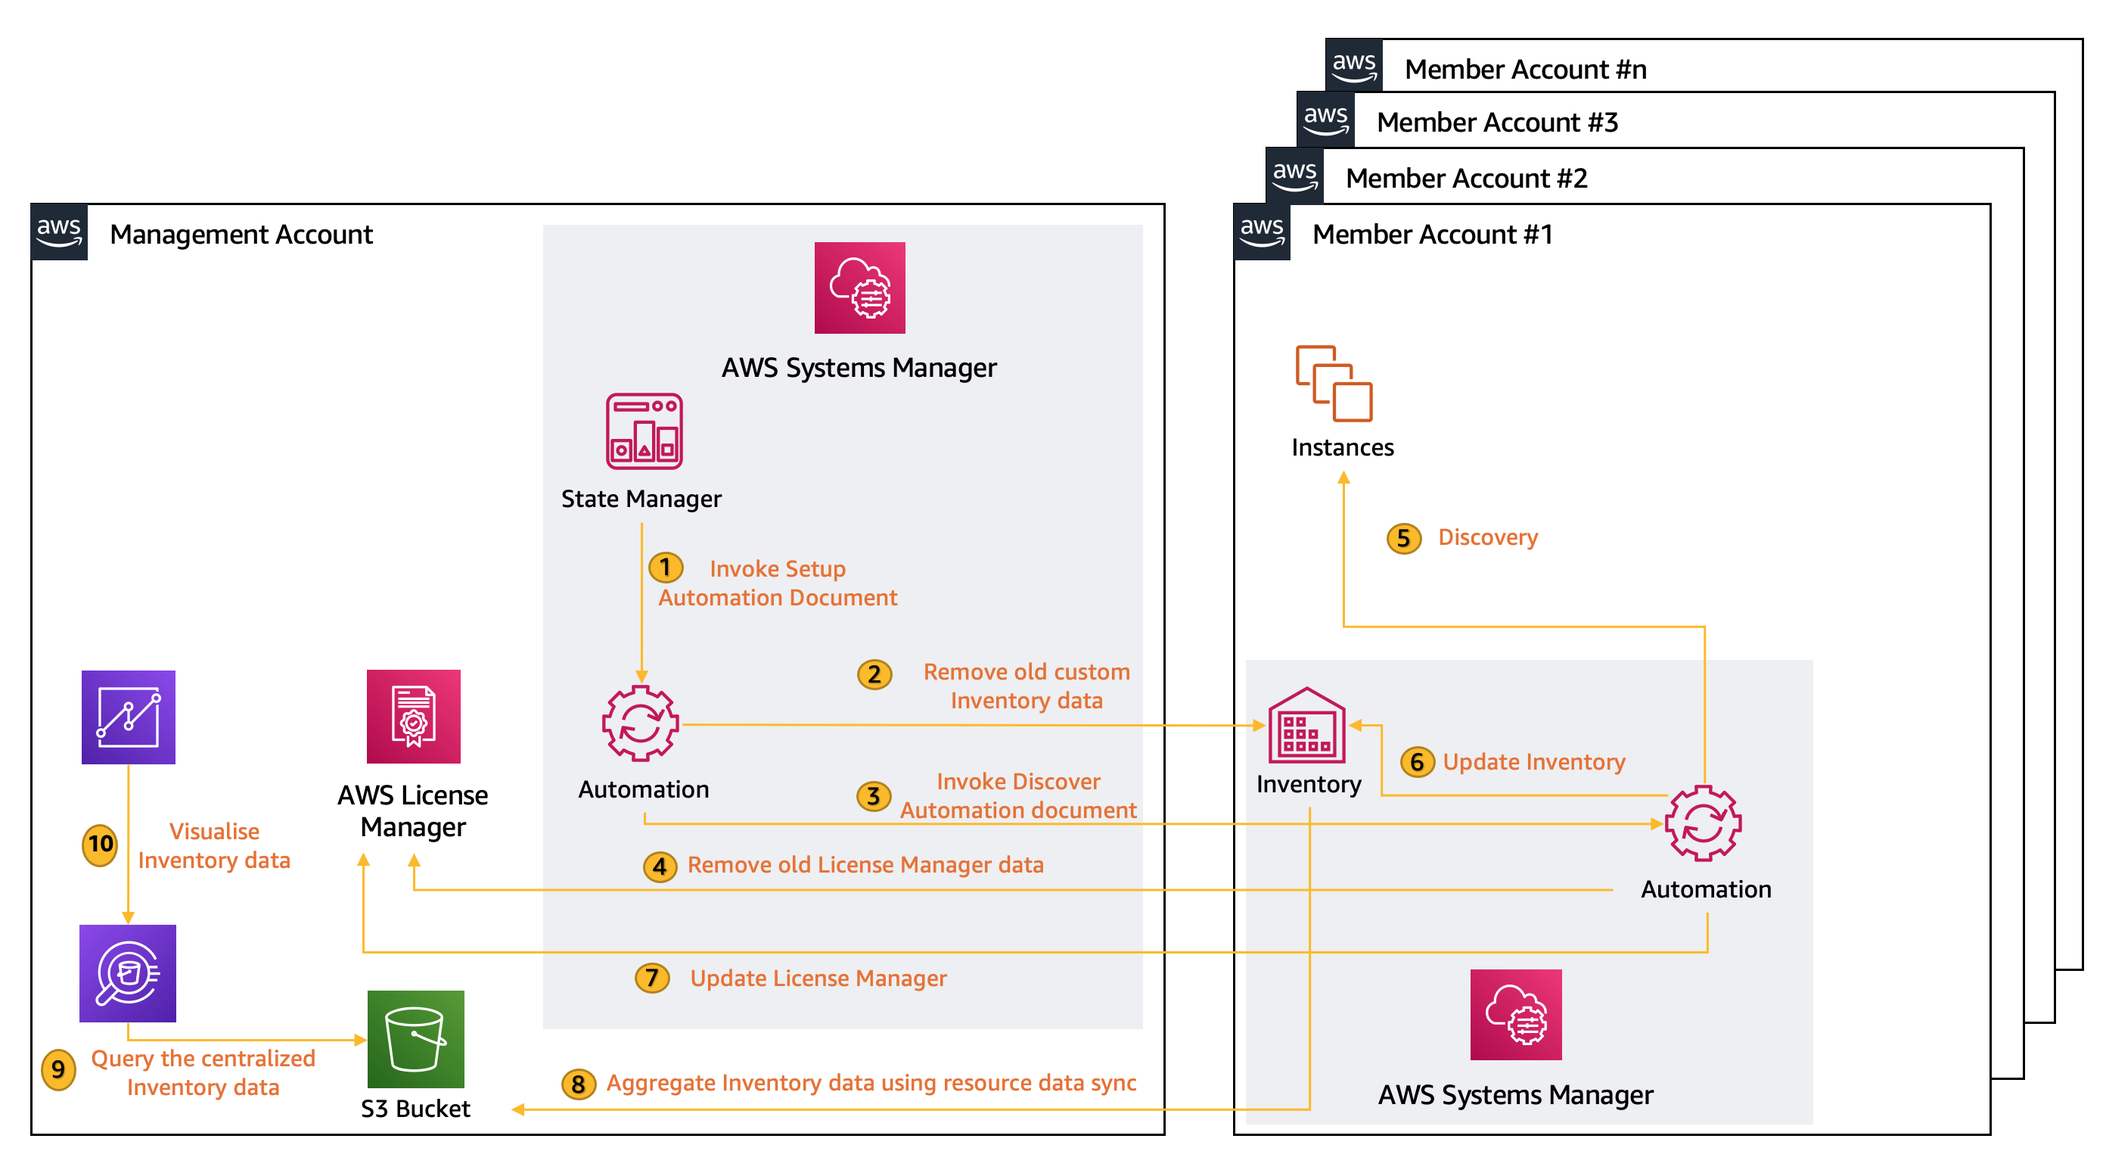
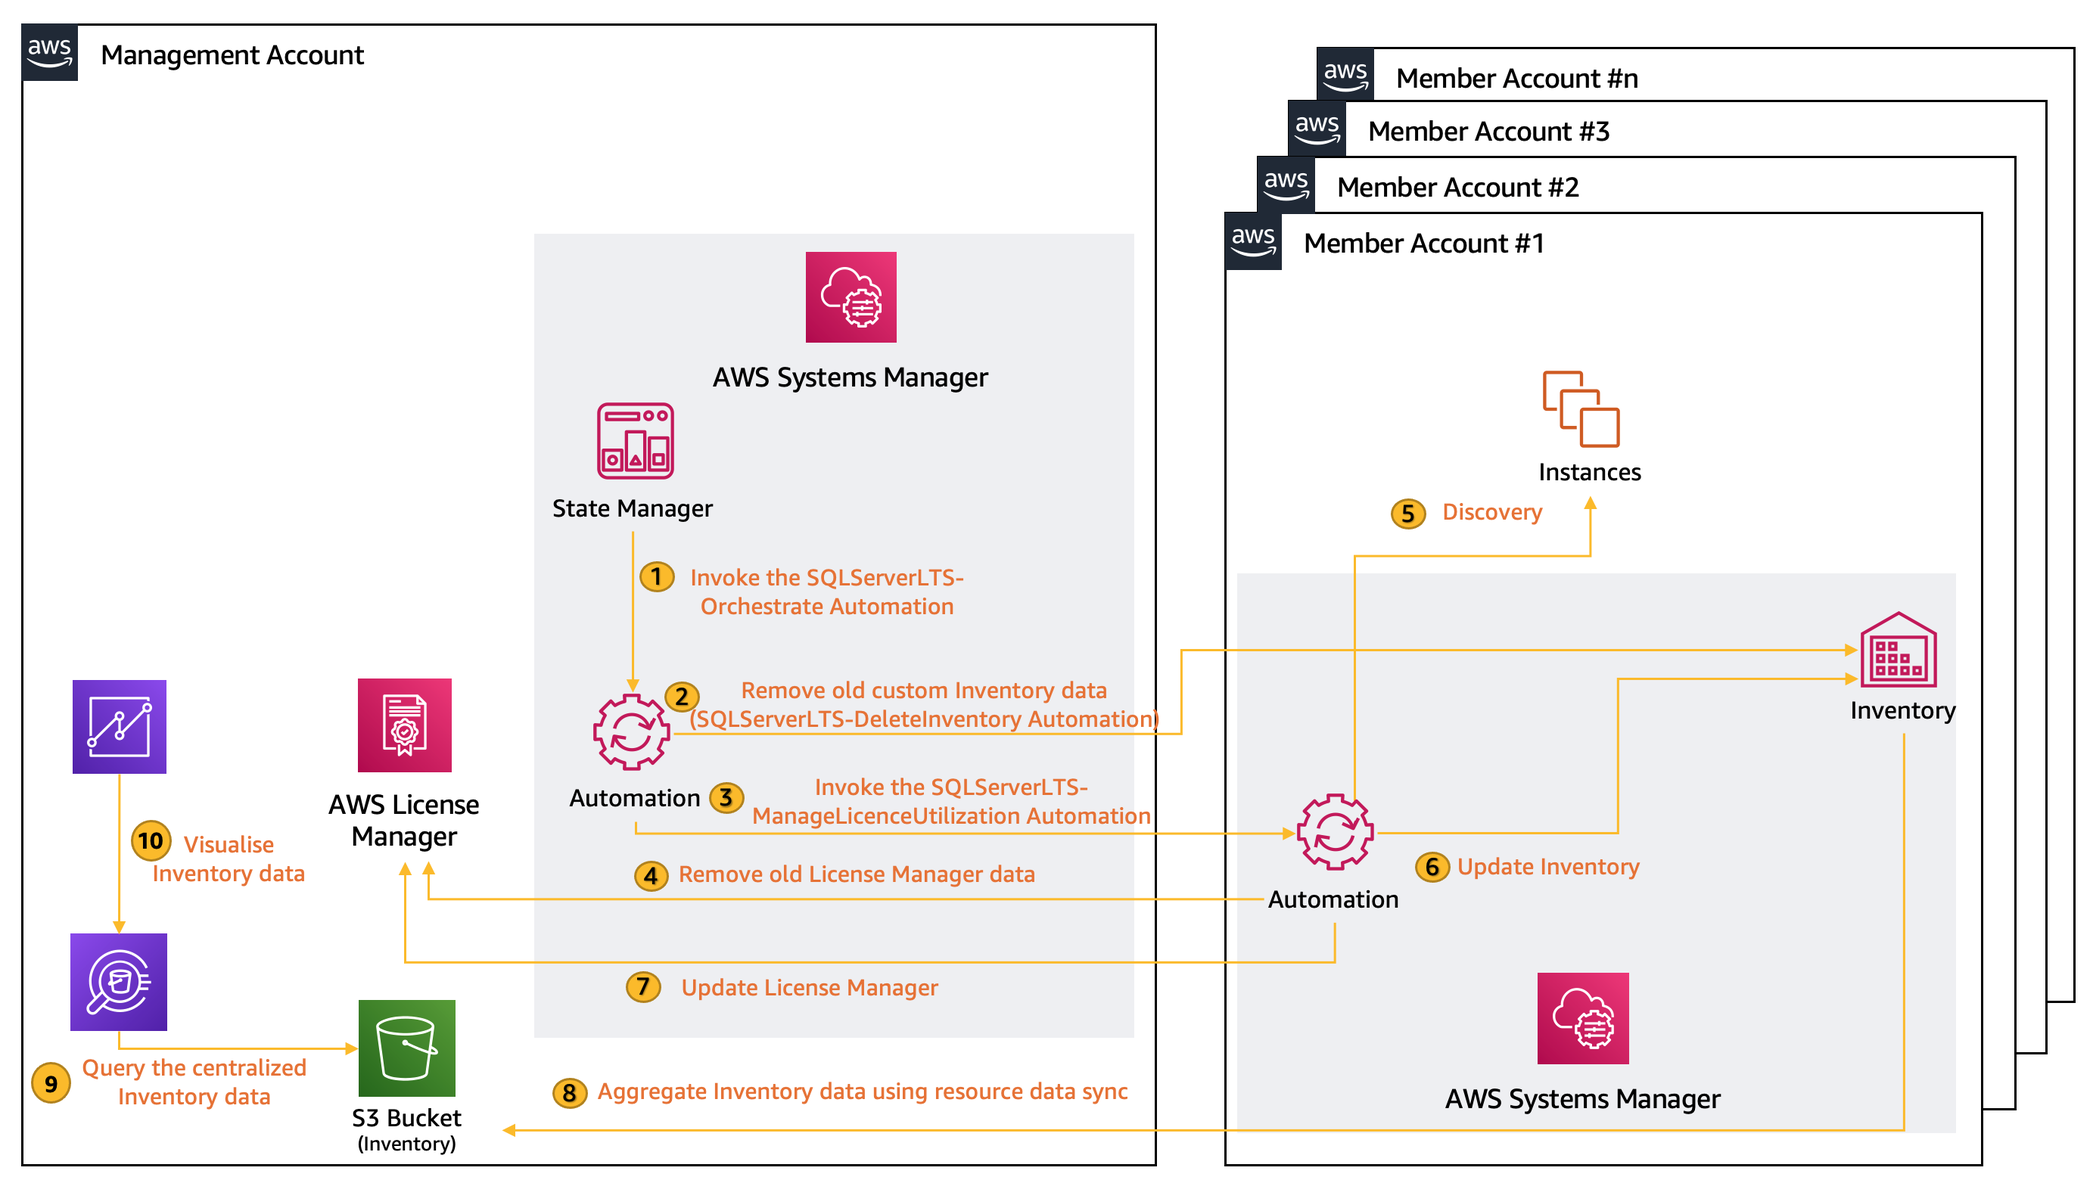
support for delegated admin

diff --git a/organization/README.md b/organization/README.md
@@ -34,22 +34,23 @@ blog post.
 # Prerequisites
 
 To deploy this solution across multiple Regions and/or accounts in 
-an organization, **complete** these steps.  
-
+an organization, **complete** these steps. 
+  
   - **Enable trusted access with AWS Organizations for CloudFormation.** 
     Complete the following tasks as described in [Enable trusted access 
     with AWS Organizations](https://docs.aws.amazon.com/AWSCloudFormation/latest/UserGuide/stacksets-orgs-enable-trusted-access.html)
     - Enable all features in AWS Organizations. With only consolidated billing features enabled, you cannot create a stack set with service-managed permissions.  
     - Enable trusted access with AWS Organizations. After trusted access is enabled, StackSets creates the necessary IAM roles in the organization's management account and target (member) accounts when you create stack sets with service-managed permissions.
+  
+  - **Using a delegated administrator.** 
+  This solution uses the management account within AWS Organizations, but you can also designate an account (delegated administrator) 
+  to manage this on behalf of the organization. If you intend to use a delegated account then you will need to register it as delegated administrator for CloudFormation stack set operations as described in [Register a delegated administrator](https://docs.aws.amazon.com/AWSCloudFormation/latest/UserGuide/stacksets-orgs-delegated-admin.html).
 
-  - **Link License Manager to AWS Organizations in all targer Regions.** 
-    To share license configurations with member accounts you will need to link 
-    License Manager to AWS Organizations.
+  - **Distributing license configurations with member accounts in all target regions.** 
+    To distribute self-managed licenses within your organization, from the License Manager console of the organization’s management account, choose Settings, and then select Link AWS Organizations accounts. When you select this option, we add a service-linked role to the management and member accounts. Repeat this step for all target regions. If you intend to use delegated administrator account, then from the License Manager console of the organization’s management account, choose Settings, and under Delegated administrator, choose Delegate administrator. Enter the account ID number for the AWS account that you want to assign, and then choose Delegate. You can’t use the ID for the management account. It must be a member account.
 
-    In the AWS License Manager console, choose **Settings**, and then select **Link AWS Organizations accounts**, as shown in Figure 1. 
+    Once completed, under the Settings section you should see a link to the new Resource Share ARN ([AWS Resource Access Manager (AWS RAM)](https://aws.amazon.com/ram/)), as shown in  Figure 1.
 
-![](images/lm-link-organization.png)
-<p align="center">Figure 1: Linking AWS Organizations accounts in the License Manager console</p>
 
     Once completed, under the Settings section you should see a link to the new Resource Share ARN (Resource Access Manager), 
     as shown in Figure 2.
@@ -80,7 +81,7 @@ an organization, **complete** these steps.  
     - SQLServerEXPLicenseConfiguration for Express Edition
 
   - **Share license configurations.** After you have defined your
-    configurations, use AWS Organizations or AWS Resource Access Manager
+    configurations, use AWS Organizations or AWS Resource Access Manager
     to share license configurations. For instructions, see the [Tracking
     software usage across multiple AWS accounts using AWS License
     Manager](https://aws.amazon.com/blogs/mt/tracking-software-usage-across-multiple-aws-accounts-using-aws-license-manager/) blog
@@ -89,7 +90,14 @@ an organization, **complete** these steps.  
     After you share your principals (accounts) and resources (license configurations), you should see them in the AWS Resource Access Manager console:
 
 ![](images/ram-lm-shared.png)
-<p align="center">Figure 3: Shared principals and resources in the AWS Resource Access Manager console</p>
+<p align="center">Figure 2: Shared principals and resources in the AWS Resource Access Manager console</p>
+
+  - **Manage instances using Systems Manager.** 
+    A managed instance is an Amazon EC2 instance that is configured for use with Systems Manager. 
+    Managed instances can use Systems Manager services such as Run Command, Patch Manager, and Session 
+    Manager. You must make sure that all instances targeted for this solution meet the prerequisites to 
+    become a managed instance including configuring instance permissions for Systems Manager as described 
+    in Setting up Systems Manager for EC2 instances.
 
 # Solution overview
 
@@ -102,7 +110,7 @@ The solution described in this blog post enhances the auto-discovery
 capability and provides license edition details for instances deployed
 across AWS Regions and accounts in AWS Organizations.
 
-Figure 4 shows the solution architecture. In addition to AWS License
+Figure 3 shows the solution architecture. In addition to AWS License
 Manager, the solution uses the following Systems Manager features and
 capabilities:
 
@@ -118,7 +126,28 @@ capabilities:
     SQL Server editions running on them.
 
 ![](images/solution-arch.png )
-<p align="center">Figure 4: Solution architecture</p>
+<p align="center">Figure 3: Solution architecture</p>
+
+
+    1. Invoke the SQLServerLTS-Orchestrate Automation: State Manager invokes the SQLServerLTS-Orchestrate Automation and passes the required parameters using which the solution determines the target Organizational Unit IDs/AWS accounts and Regions where your SQL database instances are deployed.
+
+    2. Remove old custom Inventory data: In this step, the Orchestrate Automation first invokes the SQLServerLTS-DeleteInventory Automation in the target member account to remove the old custom Inventory schema in Systems Manager Inventory, making sure that Inventory data is current. Inventory data comprises of Oracle database editions and all the packs installed and/or used.
+    
+    3. Invoke the SQLServerLTS-ManageLicenceUtilization Automation: Once the deletion has been completed, the SQLServerLTS-Orchestrate Automation invokes the SQLServerLTS-ManageLicenceUtilization Automation to initiate the discovery of Oracle databases in your account and track their utilization for license management.
+    
+    4. Remove old License Manager data: The Automation first disassociates the target instance from an existing License Configuration. This makes sure that the latest discovered licenses are available in License Manager for scenarios where changes have been made on the instance. For example, somebody deletes or installs a new edition of Oracle database on the target instance after the previous Automation run.
+    
+    5. Discovery: The Discover Automation then targets instances based on the State Manager association definition to determine the type of Oracle database running, and stores this data in the artifacts bucket under ssm-output. Instances can be targeted using ParameterValues, ResourceGroup or with tag: (default), AWS::EC2::Instance, InstanceIds, instanceids. Refer the API reference for Target for more details.
+
+    6. Update Inventory: The discovered data is used to update the Systems Manager Inventory. In this step, Automation creates two new custom schemas along with the metadata to store the Oracle edition details along with the management packs.
+    
+    7. Update License Manager: Finally, the Automation updates the License Manager with the license utilization data and associates the target instance with the appropriate license specification that has been defined in License Manager. Discovered data under ssm-output is cleared for the next run.
+
+    8. Aggregate Inventory data using resource data sync: Systems Manager resource data sync sends the Inventory data collected from all your managed instances across the member accounts to a single Amazon Simple Storage Service (Amazon S3) bucket. Then, resource data sync automatically updates the centralized data when new Inventory data is collected. 
+
+    9. Query the centralized Inventory data: You can use Amazon Athena which provides an interactive query service to analyze the Inventory data in Amazon S3 using standard SQL.
+    
+    10. Visualize Inventory data: With Amazon QuickSight you can create and publish interactive BI dashboards with insights powered by machine learning (ML).
 
 
 # Walkthrough
@@ -126,54 +155,28 @@ capabilities:
 [![cfn-stack](images/cfn-stack.png)]((https://console.aws.amazon.com/cloudformation/home?region=ap-southeast-2#/stacks/new?stackName=SQLServer-LTS&templateURL=https://bhatprav-blog-artefacts.s3.ap-southeast-2.amazonaws.com/sql-server-lts/template.yaml))
 
 To deploy the solution, launch this CloudFormation template in the
-management account of your organization.  
+management account of your organization. 
 
 This template deploys the following resources:
 
 1.  **Systems Manager documents**
     
-      - The setup Automation document (SetupSQLServerLicenseTrackingSolutionDocument) includes the logic to execute steps 1 and 2 of the walkthrough.
-    
-      - The secondary Automation document (DiscoverSQLServerLicenseTrackingSolutionDocument) includes the logic to execute steps 3-8 of the walkthrough.
+      - SQLServerLTS-Orchestrate includes the logic to run step 1 and 3 of the walk-through.
+      - SQLServerLTS-DeleteInventory includes the logic to run step 2 of the walk-through.
+      - SQLServerLTS-ManageLicenceUtilization includes the logic to run steps 4-7 of the walk-through.
+
 
 2.  **All the IAM roles required to deploy the solution**
     
-    - Automation administration role (for the administration of the Automation documents)
-        
-    - Automation execution role (for the execution of the Automation documents)
-    
-    - CloudFormation StackSets administration role (to deploy the solution across multiple accounts and Regions)
-    
-    - CloudFormation StackSets execution role (to deploy the solution across multiple accounts and Regions)
-    
-    - Lambda execution role (for the execution of the ModifySQLServerLTSDiscoverDocumentPermission Lambda function)
+    - SQLServerLTS-SystemsManager-AutomationAdministrationRole, for the administration of the Automation documents.
+    - SQLServerLTS-SystemsManager-AutomationExecutionRole, which is deployed using StackSets across all the target accounts and regions for the execution of the Automation documents
+    - SQLServerLTS-CloudFormation-StackSetAdministrationRole, to deploy the solution across multiple accounts and Regions using CloudFormation Stacksets
+    - SQLServerLTS-CloudFormation-StackSetExecutionRole, to deploy the solution across multiple accounts and Regions using CloudFormation Stacksets.
 
 3.  **S3 bucket**
 
-    This central bucket in the management account stores all the data from resource data syncs across the accounts, as shown in step 8 of Figure 4.
+    This central bucket in the management or delegated admin account stores all the data from resource data syncs across the accounts, as shown in step 8 of Figure 3.
 
-4.  **Lambda**
-    
-      - The ModifySQLServerLTSDiscoverDocumentPermission function is
-        used to maintain permissions of the Discover Automation
-        document with the accounts in the organization.
-    
-      - A [trigger to
-        schedule](https://docs.aws.amazon.com/eventbridge/latest/userguide/eb-run-lambda-schedule.html)
-        the execution of the Lambda function to run once every 30 days
-        using [Amazon EventBridge](https://aws.amazon.com/eventbridge/)
-        to ensure that the secondary document is shared with the latest
-        set of accounts.
-    
-Once your template has been deployed, using AWS CloudShell 
-invoke the lambda function to share the Discover document with all the members
-accounts within the organization. Replace REGION with your target regions:
-
-```
-for i in {REGION-1,REGION-2}; do aws lambda invoke --function-name ModifySQLServerLTSDiscoverDocumentPermission output.txt --region $i; done
-```
-
-**Note**: The lambda function is scheduled to run every day so all subsequent invocations will be performed automatically.
 
 ## Centralizing Systems Manager Inventory data using resource data sync
 
@@ -194,33 +197,19 @@ to create resource data syncs for your member accounts.
 
 ## Invoking the solution using a State Manager association
 
-Because CloudFormation doesn’t currently support *target-locations*, use
-the AWS CLI to create the association. Update the highlighted parameters
-and then execute this command in the management or root account of your
-organization.
+Use the following AWS Command Line Interface (AWS CLI) command to create an association. Update the highlighted parameters and then run this command in the management or root account of your organization.
 
-  - **Management account ID**: Specify your management account ID for
-    the SQLServerLTS-SystemsManager-AutomationAdministrationRole ARN.
-
-  - **Organizational unit IDs**: Enter an organizational unit ID (for
-    example, ou-abcd-1qwert43).
-
-  - **Regions**: Specify all AWS Regions (for example, us-east-1) where
-    your SQL Server instances are running.
-
-  - **TargetLocationMaxConcurrency** and **TargetLocationMaxErrors**:
-    Specify these values based on the number of accounts and error
-    thresholds described in
-    [TargetLocation](https://docs.aws.amazon.com/systems-manager/latest/APIReference/API_TargetLocation.html)
-    in the AWS Systems Manager API Reference.
+    - **AutomationAssumeRole**: Specify your management account ID for the AutomationAssumeRole ARN.
+    - DeploymentTargets: Enter the organizational unit IDs (for example, ou-abcd-1qwert43), AWS account IDs, or a combination of both.
+    - TargetRegions: Specify all of the AWS Regions (for example, us-east-1) where your Oracle databases are running.
+    - MaxConcurrency and MaxErrors: Specify these values based on the number of accounts and error thresholds described in [StartAutomationExecution](https://docs.aws.amazon.com/systems-manager/latest/APIReference/API_StartAutomationExecution.html#systemsmanager-StartAutomationExecution-request-MaxConcurrency) in the Systems Manager API Reference.
 
 ```
 aws ssm create-association \
     --association-name "SQLServerLicenseTrackingSolutionAssociation" \
-    --name "SetupSQLServerLicenseTrackingSolutionDocument" \
-    --parameters '{"AutomationAssumeRole":["arn:aws:iam::MANAGEMENT-ACCOUNT-ID:role/SQLServerLTS-SystemsManager-AutomationAdministrationRole"]}' \
-    --no-apply-only-at-cron-interval \
-    --target-locations '[{"Accounts": ["OU1-ID LIKE ou-abcd-1qwert43","OU2-ID","OU3-ID"],"Regions": ["REGION-1 like us-east-1","REGION-2"],"TargetLocationMaxConcurrency": "4","TargetLocationMaxErrors": "4","ExecutionRoleName": "SQLServerLTS-SystemsManager-AutomationExecutionRole"}]'
+    --name "SQLServerLTS-Orchestrate" \
+    --parameters '{"AutomationAssumeRole":["arn:aws:iam::ADMINISTRATOR-ACCOUNT-ID:role/SQLServerLTS-SystemsManager-AutomationAdministrationRole"],"DeploymentTargets":["OU1-ID LIKE ou-abcd-1qwert43","OU2-ID","ACCOUNT-ID"],"TargetRegions":["REGION-1 like us-east-1","REGION-2"],"MaxConcurrency":["4"],"MaxErrors":["4"]}' \
+    --no-apply-only-at-cron-interval
 ```
 
 **Note:** This command will invoke the system to run it once immediately after it
@@ -236,25 +225,25 @@ After the association has triggered the automation, open the Systems
 Manager console and from the left navigation pane, choose
 ***Automation***. In **Automation executions**, choose the most recent
 execution of the *SetupSQLServerLicenseTrackingSolutionDocument*, as
-shown in Figure 5.
+shown in Figure 4.
 
 ![](images/ssm-automation-execution-result.png)
-<p align="center">Figure 5: Automation executions (management account)</p>
+<p align="center">Figure 4: Automation executions (management account)</p>
 
 Depending on the number of Regions, accounts, and instances you execute
 this solution against, a successful run of the execution looks like the
 following:
 
 ![](images/ssm-automation-dashboard.png)
-<p align="center">Figure 6: Automation execution detail (management account)</p>
+<p align="center">Figure 5: Automation execution detail (management account)</p>
 
 On the details page for the execution, choose any of the **step ID**s,
 and then under **Outputs**, choose the **execution ID.** Under **Executed steps** 
 click on step #2 ID, you can find the *Automation execution ID* of the
-discover document in the member account, as shown in Figure 7.
+discover document in the member account, as shown in Figure 6.
 
 ![](images/execution-id.png)
-<p align="center">Figure 7: Automation outputs (management account)</p>
+<p align="center">Figure 6: Automation outputs (management account)</p>
 
 
 In the Systems Manager console, search for this ID in the member account
@@ -262,27 +251,25 @@ and Region. Choose the execution ID link to get more information about
 the execution.
 
 ![](images/member-account-ssm-dashboard.png)
-<p align="center">Figure 8: Automation executions (member account)</p>
+<p align="center">Figure 7: Automation executions (member account)</p>
 
 
 To confirm that the license utilization data has been updated in AWS
 License Manager, using the management account and selected Region, open
 the **License Manager** console. Depending on the licenses consumed, the
-**Customer managed licenses** list will look something like Figure 9 in 
+**Customer managed licenses** list will look something like Figure 8 in 
 each region:
 
 
 ![](images/customer-managed-licenses.png)
-<p align="center">Figure 9: Customer managed licenses</p>
+<p align="center">Figure 8: Customer managed licenses</p>
 
 
 ## Adding new accounts and Regions
 
-The solution will automatically cover any new AWS accounts that you provision 
-under the OUs you specified when you created the association 
-(Note: Lambda function that shares the Discover document with member accounts 
-is invoked every day). If you create new OUs or add Regions, you will need to 
-update the following solution components:
+If you add new OU’s, accounts outside of the currently targeted OU’s or Regions, 
+then you must update both the CloudFormation template and association. 
+However, if you are only adding accounts to the currently targeted OU’s then you must only update the association.
 
 **CloudFormation**:
 
@@ -292,14 +279,11 @@ update the following solution components:
 2.  Leave the **Use the current template** option selected.
 
 3.  Under **Automation Documents**, update the **TargetRegions** and
-    **TargetOUs** parameters with the new values.
+    **DeploymentTargets** parameters with the new values.
 
 **Association**:
 
-Use
-[update-association](https://awscli.amazonaws.com/v2/documentation/api/latest/reference/ssm/update-association.html)
-to update the current association. Specify the accounts and Regions in
---target-locations.
+Update the association using the instructions provided in [Editing and creating a new version of an association](https://docs.aws.amazon.com/systems-manager/latest/userguide/sysman-state-assoc-edit.html) by updating the parameters with the new additions.
 
 **Resource data sync**
 Add new resource data sync in the account and Region as described earlier 
